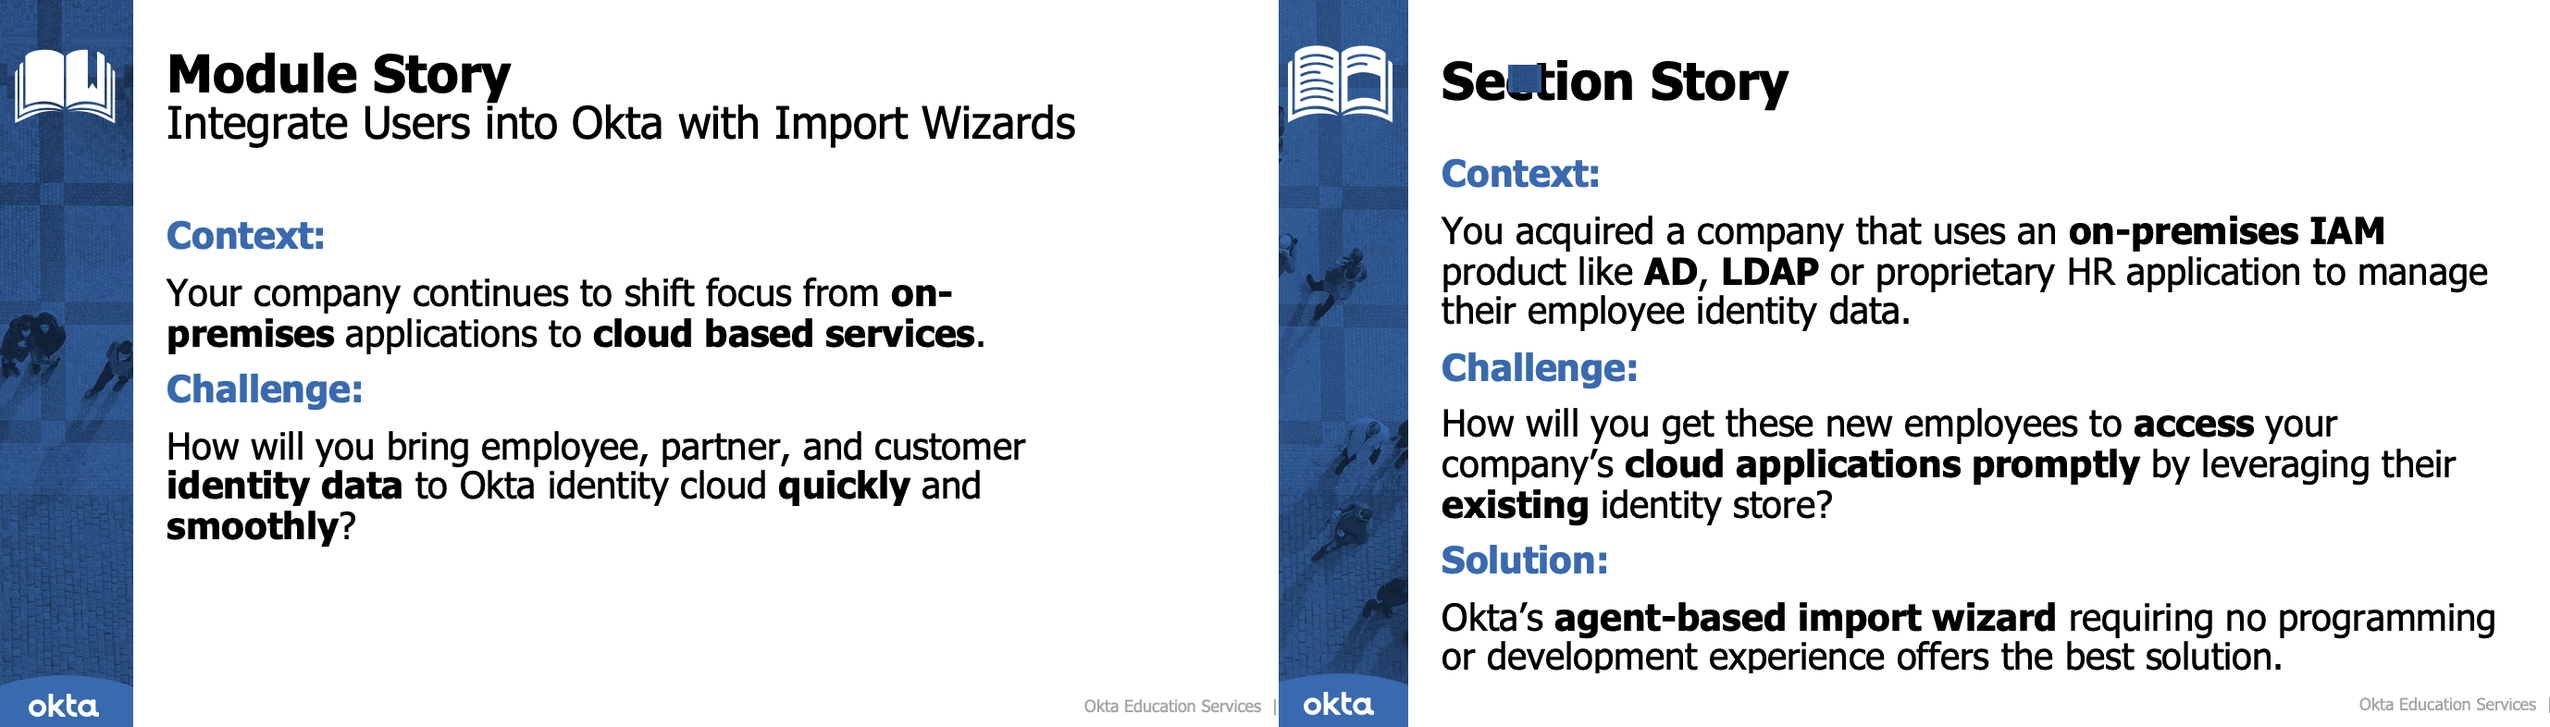
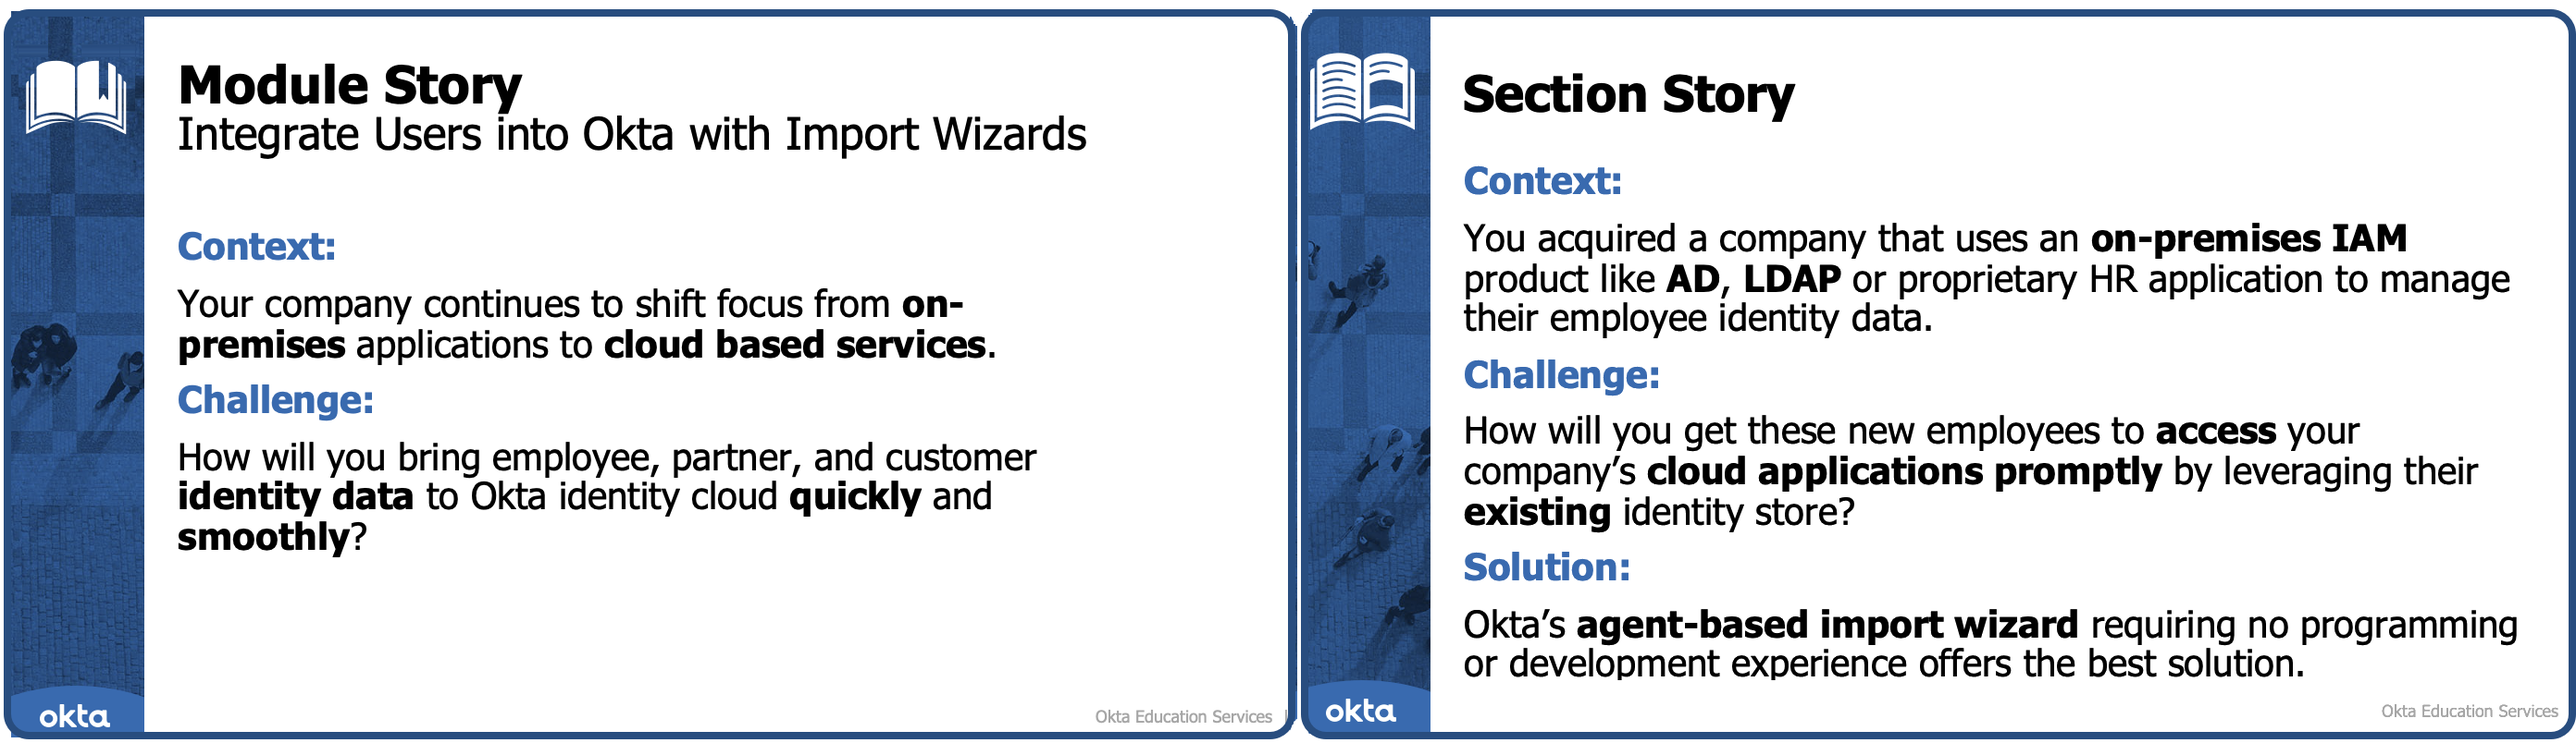
Add frame for some images

Changed region(s): [[0.0, 0.0, 1.0, 1.0]]

diff --git a/samples.html b/samples.html
@@ -165,7 +165,7 @@
 </section>
 
 <!-- ===================== Instructional Design - HOL===================== -->
-<section class="greybg" id="lab">
+<section id="lab">
   <div class="title">Hands-On Lab</div>
   <!-- <div class="description">Building interactive modules that simplify complex concepts through visual storytelling and active engagement.</div> -->
   <div style="height: 1.5em;"></div>
@@ -178,7 +178,7 @@
         </div>
       </div>
       <div class="carousel_image">
-       <img src="worksamples/HOL map.png" alt="Lab map" style="width:650px" />
+       <img src="worksamples/HOL map.png" alt="Lab map" class="imgBorder" style="width:650px" />
       </div>
     </div>
     <div class="item">
@@ -192,14 +192,14 @@
         <a href="worksamples/Configure Universal Logout with Identity Treat Protection - Oktane 2024 Lab Guide.pdf" target="_blank">View full sample</a>
       </div>
       <div class="carousel_image">
-        <a href="worksamples/Configure Universal Logout with Identity Treat Protection - Oktane 2024 Lab Guide.pdf" target="_blank"><img src="worksamples/HOL Oktane guide.png" alt="ITP Architecture & Risk Models" style="width:650px"/> </a>
+        <a href="worksamples/Configure Universal Logout with Identity Treat Protection - Oktane 2024 Lab Guide.pdf" target="_blank"><img src="worksamples/HOL Oktane guide.png" alt="ITP Architecture & Risk Models" class="imgBorder" style="width:650px"/> </a>
       </div>
     </div>
   </div>
 </section>
 
 <!-- ===================== Development Ecosystem ===================== -->
-<section id="dev-ecosystem">
+<section class="greybg" id="dev-ecosystem">
   <div class="title">Development Ecosystem</div>
   <!-- <div class="description">Contributing to the transition from ad-hoc practices to a standards-based infrastructure that improved efficiency and consistency across the curriculum team.</div> -->
   <div style="height: 1.5em;"></div>
@@ -243,7 +243,7 @@
 
 
 <!-- ===================== Innovation & Emerging Tech ===================== -->
-<section class="greybg" id="innovation">
+<section id="innovation">
   <div class="title">Innovation & Emerging Tech</div>
   <!--  <div class="description">Exploring new technologies to enhance learning delivery and improve reliability.</div> -->
   <div style="height: 1.5em;"></div>
@@ -259,7 +259,7 @@
         <a href="worksamples/AI_Ditto Architecture.mp4" target="_blank">View full sample</a>
       </div>
       <div class="carousel_image">
-        <a href="worksamples/AI_Ditto Architecture.mp4" target="_blank"><img src="worksamples/Innovation Chatbot.png" alt="AI-Powered Learning Portal Chatbot" style="width:650px"/></a>
+        <a href="worksamples/AI_Ditto Architecture.mp4" target="_blank"><img src="worksamples/Innovation Chatbot.png" alt="AI-Powered Learning Portal Chatbot" class="imgBorder" style="width:650px"/></a>
       </div>
     </div>
     <div class="item">
@@ -273,14 +273,14 @@
         <a href="worksamples/AI_testpilot.mp4" target="_blank">View full sample</a>
       </div>
       <div class="carousel_image">
-        <a href="worksamples/AI_testpilot.mp4" target="_blank"><img src="worksamples/Innovation Lab Validation.png" alt="AI-Driven Lab Validation" style="width:650px"/></a>
+        <a href="worksamples/AI_testpilot.mp4" target="_blank"><img src="worksamples/Innovation Lab Validation.png" alt="AI-Driven Lab Validation" class="imgBorder" style="width:650px"/></a>
       </div>
     </div>
   </div>
 </section>
 
 <!-- ===================== Earlier Work ===================== -->
-<section id="earlier-work">
+<section class="greybg" id="earlier-work">
   <div class="title">Earlier Work</div>
   <!--  <div class="description">Select projects from previous roles highlighting versatility across media and formats.</div> -->
   <div style="height: 1.5em;"></div>
@@ -326,7 +326,7 @@
         </div>
       </div>
       <div class="carousel_image">
-        <a href="http://www.oracle.com/webfolder/technetwork/tutorials/obe/cloud/sscs/CreateStorageContainer/SOACS_prereq_storageContainers.html" target="_blank"><img src="image/tutorial.png" alt="Product Tutorial" /></a>
+        <a href="http://www.oracle.com/webfolder/technetwork/tutorials/obe/cloud/sscs/CreateStorageContainer/SOACS_prereq_storageContainers.html" target="_blank"><img src="image/tutorial.png" alt="Product Tutorial" class="imgBorder"/></a>
       </div>
     </div>
   </div>
